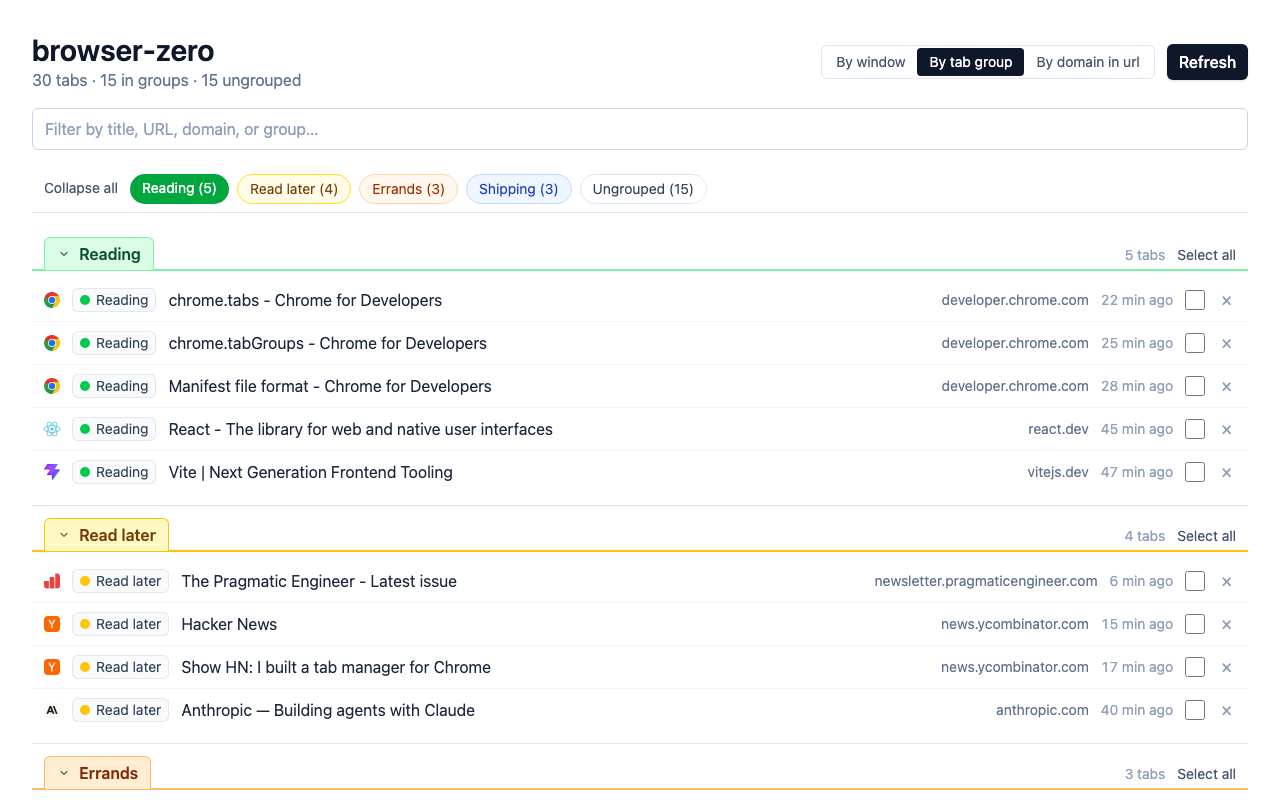
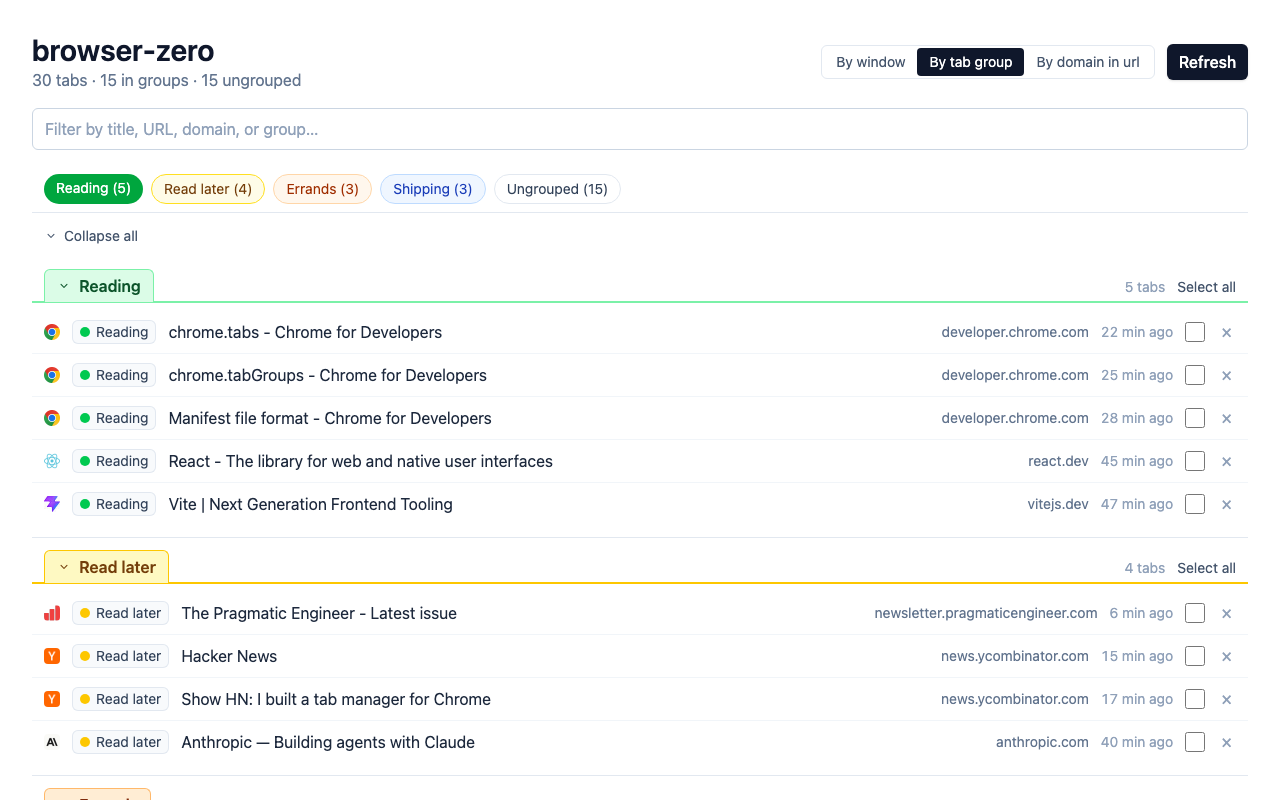
feat(dashboard): move expand/collapse-all toggle to its own row above sections
User feedback: the toggle shouldn't share the chip-nav row. Move it to
its own compact left-aligned row directly below the sticky chip nav and
directly above the first section.

- src/dashboard/components/GroupNav.tsx: drop the allCollapsed +
  onToggleAllCollapsed props and the button JSX. GroupNav is back to a
  pure chip-only nav.
- src/dashboard/components/TabList.tsx: render a new compact row
  between <GroupNav> and the section list. The button keeps the same
  state-aware label ('Collapse all' / 'Expand all') and gains a small
  chevron that rotates 90° to echo the per-section chevrons. Hidden
  when there's fewer than 2 sections to act on (matching GroupNav's
  own hide threshold).
- tests-small-unit/dashboard/components/GroupNav.test.tsx: drop the
  three toggle-related unit tests (the toggle is no longer in GroupNav).
- tests-medium-integration/dashboard/dashboard.test.tsx: unchanged. The
  'collapses every section when Collapse all is clicked' acceptance
  test still passes — the button keeps its accessible name; what
  shifted is which DOM ancestor wraps it.

78 → 75 unit/integration tests, all green.

Changed region(s): [[0.0312, 0.2188, 0.9688, 1.0], [0.7188, 0.4688, 0.9688, 0.5938], [0.7188, 0.3125, 0.9688, 0.4375]]

diff --git a/src/dashboard/components/GroupNav.tsx b/src/dashboard/components/GroupNav.tsx
@@ -10,18 +10,10 @@ interface NavGroup {
 interface Props {
   groups: ReadonlyArray<NavGroup>;
   activeKey: string | null;
-  allCollapsed: boolean;
   onSelect: (groupKey: string) => void;
-  onToggleAllCollapsed: () => void;
 }
 
-export function GroupNav({
-  groups,
-  activeKey,
-  allCollapsed,
-  onSelect,
-  onToggleAllCollapsed,
-}: Props) {
+export function GroupNav({ groups, activeKey, onSelect }: Props) {
   // Nothing to jump between when there's 0 or 1 group; render nothing so
   // the dashboard isn't cluttered with a single-link nav row.
   if (groups.length < 2) return null;
@@ -29,37 +21,28 @@ export function GroupNav({
   return (
     <nav
       aria-label="Jump to group"
-      className="sticky top-0 z-10 mb-3 flex items-start gap-3 border-b border-slate-200 bg-white/95 px-3 py-2 text-sm backdrop-blur"
+      className="sticky top-0 z-10 mb-3 flex flex-wrap gap-2 border-b border-slate-200 bg-white/95 px-3 py-2 text-sm backdrop-blur"
     >
-      <button
-        type="button"
-        onClick={onToggleAllCollapsed}
-        className="shrink-0 self-start whitespace-nowrap py-1 text-slate-600 hover:text-slate-900 hover:underline"
-      >
-        {allCollapsed ? 'Expand all' : 'Collapse all'}
-      </button>
-      <div className="flex flex-wrap gap-2">
-        {groups.map((group) => {
-          const isActive = group.key === activeKey;
-          const chipClass = isActive
-            ? activeChipClassForGroupColor(group.color)
-            : inactiveChipClassForGroupColor(group.color);
-          return (
-            <a
-              key={group.key}
-              href={`#${group.key}`}
-              aria-current={isActive ? 'true' : undefined}
-              onClick={(event) => {
-                event.preventDefault();
-                onSelect(group.key);
-              }}
-              className={`rounded-full px-3 py-1 transition-colors ${chipClass}`}
-            >
-              {group.label} ({group.count})
-            </a>
-          );
-        })}
-      </div>
+      {groups.map((group) => {
+        const isActive = group.key === activeKey;
+        const chipClass = isActive
+          ? activeChipClassForGroupColor(group.color)
+          : inactiveChipClassForGroupColor(group.color);
+        return (
+          <a
+            key={group.key}
+            href={`#${group.key}`}
+            aria-current={isActive ? 'true' : undefined}
+            onClick={(event) => {
+              event.preventDefault();
+              onSelect(group.key);
+            }}
+            className={`rounded-full px-3 py-1 transition-colors ${chipClass}`}
+          >
+            {group.label} ({group.count})
+          </a>
+        );
+      })}
     </nav>
   );
 }

diff --git a/tests-small-unit/dashboard/components/GroupNav.test.tsx b/tests-small-unit/dashboard/components/GroupNav.test.tsx
@@ -22,17 +22,13 @@ const renderNav = (
   overrides: Partial<{
     groups: ReadonlyArray<NavGroupFixture>;
     activeKey: string | null;
-    allCollapsed: boolean;
     onSelect: (groupKey: string) => void;
-    onToggleAllCollapsed: () => void;
   }> = {},
 ) => {
   const props = {
     groups: sampleGroups,
     activeKey: null as string | null,
-    allCollapsed: false,
     onSelect: noop,
-    onToggleAllCollapsed: noop,
     ...overrides,
   };
   return render(<GroupNav {...props} />);
@@ -102,27 +98,5 @@ describe('GroupNav', () => {
     const ungroupedChip = screen.getByRole('link', { name: 'Ungrouped (8)' });
     expect(ungroupedChip.className).toContain('bg-white');
     expect(ungroupedChip.className).toContain('text-slate-700');
-  });
-
-  it('renders "Collapse all" when at least one section is expanded', () => {
-    renderNav({ allCollapsed: false });
-    expect(screen.getByRole('button', { name: /collapse all/i })).toBeInTheDocument();
-    expect(screen.queryByRole('button', { name: /expand all/i })).not.toBeInTheDocument();
-  });
-
-  it('renders "Expand all" when every section is collapsed', () => {
-    renderNav({ allCollapsed: true });
-    expect(screen.getByRole('button', { name: /expand all/i })).toBeInTheDocument();
-    expect(screen.queryByRole('button', { name: /collapse all/i })).not.toBeInTheDocument();
-  });
-
-  it('calls onToggleAllCollapsed when the master toggle is clicked', async () => {
-    const onToggleAllCollapsed = vi.fn();
-    const user = userEvent.setup();
-    renderNav({ onToggleAllCollapsed });
-
-    await user.click(screen.getByRole('button', { name: /collapse all/i }));
-
-    expect(onToggleAllCollapsed).toHaveBeenCalledTimes(1);
   });
 });

diff --git a/src/dashboard/components/TabList.tsx b/src/dashboard/components/TabList.tsx
@@ -153,13 +153,31 @@ export function TabList({
 
   return (
     <div ref={containerRef}>
-      <GroupNav
-        groups={navGroups}
-        activeKey={resolvedActiveKey}
-        allCollapsed={allCollapsed}
-        onSelect={scrollToGroup}
-        onToggleAllCollapsed={toggleAllCollapsed}
-      />
+      <GroupNav groups={navGroups} activeKey={resolvedActiveKey} onSelect={scrollToGroup} />
+      {groups.length > 1 && (
+        <div className="mb-2 px-3">
+          <button
+            type="button"
+            onClick={toggleAllCollapsed}
+            aria-expanded={!allCollapsed}
+            className="inline-flex items-center gap-1.5 text-sm text-slate-600 hover:text-slate-900 hover:underline"
+          >
+            <svg
+              viewBox="0 0 20 20"
+              fill="currentColor"
+              aria-hidden="true"
+              className={`h-3.5 w-3.5 transition-transform ${allCollapsed ? '-rotate-90' : 'rotate-0'}`}
+            >
+              <path
+                fillRule="evenodd"
+                clipRule="evenodd"
+                d="M5.23 7.21a.75.75 0 0 1 1.06.02L10 11.06l3.71-3.83a.75.75 0 1 1 1.08 1.04l-4.25 4.39a.75.75 0 0 1-1.08 0L5.21 8.27a.75.75 0 0 1 .02-1.06z"
+              />
+            </svg>
+            {allCollapsed ? 'Expand all' : 'Collapse all'}
+          </button>
+        </div>
+      )}
       <div className="divide-y divide-slate-200">
         {groups.map((group) => {
           const groupIds = group.tabs.map((tab) => tab.id);
